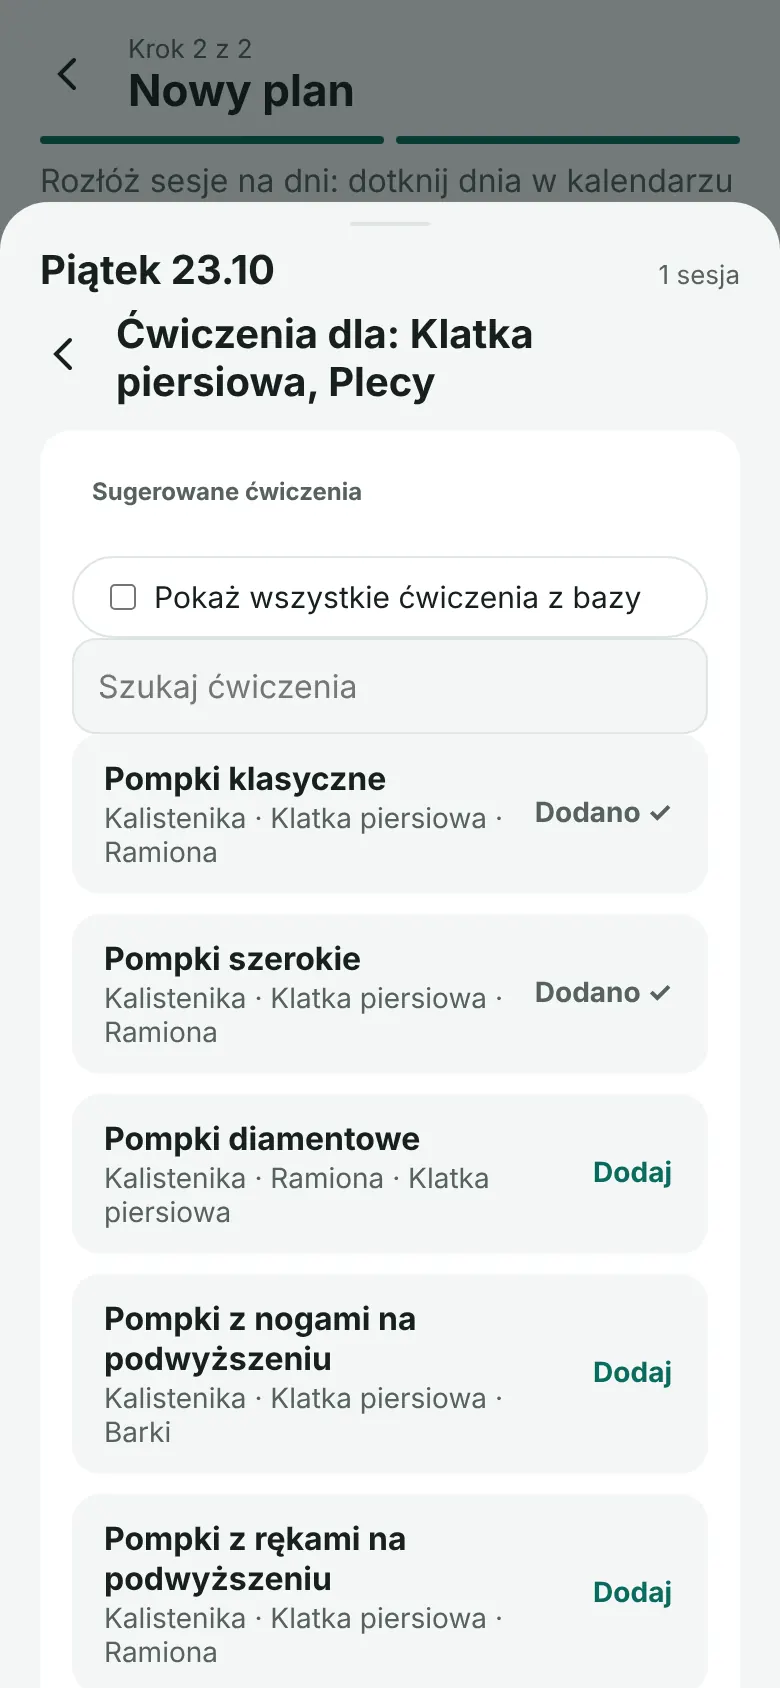
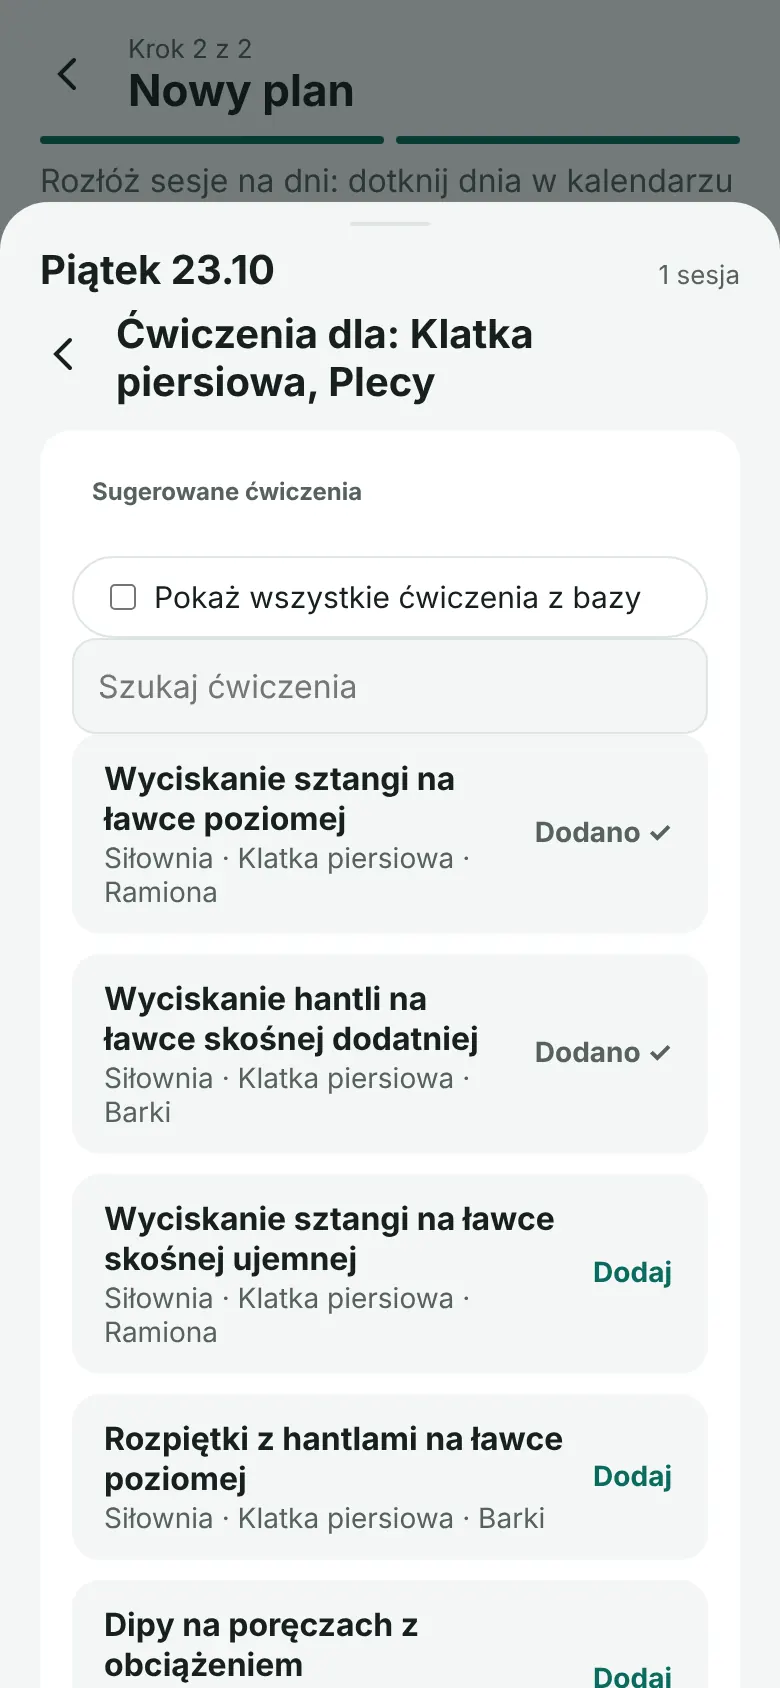
Przewodnik 10 kart (parametry, inne wartości, Moje treningi); podpowiedzi ćwiczeń zawężone do rodzaju aktywności
Claude-Session: https://claude.ai/code/session_01XYZpKMcxhnPhiREo3SxfLT

diff --git a/przewodnik.js b/przewodnik.js
@@ -3,13 +3,16 @@
 // Zrzuty generuje narzedzia/zrzuty-przewodnika.js z działającej aplikacji.
 
 const KARTY_PRZEWODNIKA = [
-  { obraz: "przewodnik/1-start.webp", tytul: "Witaj w aplikacji do ćwiczeń", tekst: "Układasz plan na tydzień lub miesiąc, a na ekranie Dziś odhaczasz ćwiczenia. Aplikacja ma trzy zakładki: Dziś, Ćwiczenia (baza ćwiczeń) i Postęp. Zacznij od „Utwórz plan”." },
+  { obraz: "przewodnik/1-start.webp", tytul: "Witaj w aplikacji do ćwiczeń", tekst: "Układasz plan na tydzień lub miesiąc, a na ekranie Dziś odhaczasz ćwiczenia. Aplikacja ma trzy zakładki: Dziś, Ćwiczenia (baza ćwiczeń i Moje treningi) oraz Postęp. Zacznij od „Utwórz plan”." },
   { obraz: "przewodnik/2-aktywnosci.webp", tytul: "1. Wybierz aktywności", tekst: "Dodaj aktywności (siłownia, kalistenika, spacer, bieganie…) i wpisz, ile razy w okresie chcesz je zrobić. Przy siłowni i kalistenice wybierz partie mięśni (można kilka) albo „Ogólnorozwojowy”." },
   { obraz: "przewodnik/3-kalendarz.webp", tytul: "2. Rozłóż sesje na dni", tekst: "Dotknij dnia w kalendarzu i dodaj sesję albo użyj „Zaproponuj rozkład”. Puste kwadraciki to sesje do uzupełnienia." },
-  { obraz: "przewodnik/4-cwiczenia-w-sesji.webp", tytul: "3. Dodaj ćwiczenia do sesji", tekst: "Dotknij sesji i wybierz „Dodaj ćwiczenia”. Aplikacja podpowiada ćwiczenia pasujące do partii, a „Pokaż wszystkie” otwiera całą bazę. Potem ustawisz serie, powtórzenia i ciężary." },
-  { obraz: "przewodnik/5-dzis.webp", tytul: "Odhaczaj na ekranie Dziś", tekst: "Dotknij kwadracika, aby zaliczyć ćwiczenie. Dotknij wartości (np. 8 × 8), jeśli zrobiłeś coś innego niż w planie albo użyłeś innego ciężaru." },
-  { obraz: "przewodnik/6-postep.webp", tytul: "Śledź postęp", tekst: "Zakładka Postęp pokazuje realizację planu, ćwiczone mięśnie i serię dni. Poprzednie plany zostają w historii, a przy każdym ćwiczeniu jest przycisk „Historia”." },
-  { obraz: "przewodnik/7-baza.webp", tytul: "Baza ćwiczeń", tekst: "Wybierz partię i mięśnie, aby znaleźć ćwiczenie. Niepotrzebne ćwiczenia możesz ukryć i przywrócić przyciskiem „Pokaż ukryte”. Możesz też dodać własne." }
+  { obraz: "przewodnik/4-cwiczenia-w-sesji.webp", tytul: "3. Dodaj ćwiczenia do sesji", tekst: "Dotknij sesji i wybierz „Dodaj ćwiczenia”. Aplikacja podpowiada ćwiczenia pasujące do aktywności, a „Pokaż wszystkie” otwiera całą bazę. Zaznacz „Zapisz w Moich zestawach”, jeśli chcesz użyć tego zestawu ponownie." },
+  { obraz: "przewodnik/5-parametry.webp", tytul: "4. Ustaw serie, powtórzenia i ciężary", tekst: "Dla każdego ćwiczenia wybierz miarę (serie i powtórzenia, czas…) i wpisz ile razy. Przy ćwiczeniach z ciężarem ustaw kilogramy: ten sam w każdej serii albo różny w seriach. To jest plan, który zobaczysz na ekranie Dziś." },
+  { obraz: "przewodnik/6-dzis.webp", tytul: "Odhaczaj na ekranie Dziś", tekst: "Dotknij kwadracika, aby zaliczyć ćwiczenie dokładnie tak, jak w planie. Pod ćwiczeniem widzisz zaplanowane serie i powtórzenia, a po zaliczeniu pasek postępu rośnie." },
+  { obraz: "przewodnik/7-inne-wartosci.webp", tytul: "Zrobiłeś inaczej niż w planie?", tekst: "Dotknij podkreślonej wartości (np. 8 × 8), a pojawią się pola serii, powtórzeń i ciężaru. Zmień je tak, jak było naprawdę, a aplikacja policzy różnicę („+16 powt. ponad plan” albo mniej). „Zapisz i zalicz” zapisuje wynik." },
+  { obraz: "przewodnik/8-postep.webp", tytul: "Śledź postęp", tekst: "Zakładka Postęp pokazuje realizację planu, ćwiczone mięśnie i serię dni. Poprzednie plany zostają w historii, a przy każdym ćwiczeniu jest przycisk „Historia”." },
+  { obraz: "przewodnik/9-baza.webp", tytul: "Baza ćwiczeń", tekst: "Wybierz partię i mięśnie, aby znaleźć ćwiczenie. Niepotrzebne ćwiczenia możesz ukryć i przywrócić przyciskiem „Pokaż ukryte”. Możesz też dodać własne." },
+  { obraz: "przewodnik/10-moje-treningi.webp", tytul: "Moje treningi", tekst: "To zestawy ćwiczeń, które zapisałeś, żeby używać ich w kolejnych planach, np. „Klatka i plecy A”. Dodasz je w sesji przyciskiem „Z moich zestawów”. Tutaj możesz je też pokazać, edytować albo usunąć." }
 ];
 
 const przewodnikTlo = document.getElementById("przewodnik");

diff --git a/narzedzia/zrzuty-przewodnika.js b/narzedzia/zrzuty-przewodnika.js
@@ -41,10 +41,20 @@ const sciezka = require("path").resolve(__dirname, "..");
   await p.locator("#kr2-cwiczenia .akcja").nth(0).tap();
   await p.locator("#kr2-cwiczenia .akcja").nth(1).tap();
   await zrzut("4-cwiczenia-w-sesji");
+  await p.check("#kr2-zapisz-zestaw");
+  await p.fill("#kr2-nazwa", "Klatka i plecy A");
   await p.tap("#kr2-zapisz");
   await p.waitForTimeout(300);
   const wejscia = p.locator("#pd-sesja-parametry input:visible");
   for (let i = 0; i < (await wejscia.count()); i++) await wejscia.nth(i).fill("8");
+  const bloki = p.locator("#pd-sesja-parametry .ciezar-blok select");
+  for (let i = 0; i < (await bloki.count()); i++) {
+    await bloki.nth(i).selectOption("jeden");
+    await p.locator("#pd-sesja-parametry .ciezar-blok").nth(i).locator("input:visible").first().fill(i === 0 ? "60" : "24");
+  }
+  await p.locator("#arkusz-tresc").evaluate((e) => (e.scrollTop = 130));
+  await p.waitForTimeout(200);
+  await zrzut("5-parametry");
   await p.tap("#pd-sesja-zapisz");
   await p.tap("#pd-zamknij");
 
@@ -87,11 +97,20 @@ const sciezka = require("path").resolve(__dirname, "..");
   await p.waitForTimeout(300);
   await p.locator("#dzis-sesje .odhacz").first().tap();
   await p.waitForTimeout(300);
-  await zrzut("5-dzis");
+  await zrzut("6-dzis");
+  // Okno wartości: zrobione inaczej niż w planie
+  await p.locator("#dzis-sesje .wartosc-przycisk").nth(1).tap();
+  await p.waitForTimeout(200);
+  await p.locator("#wart-pola .wart-stepper button").nth(3).tap();
+  await p.locator("#wart-pola .wart-stepper button").nth(3).tap();
+  await p.locator("#wart-pola .wart-stepper button").nth(5).tap();
+  await p.waitForTimeout(200);
+  await zrzut("7-inne-wartosci");
+  await p.tap("#wart-anuluj");
 
   await p.evaluate(() => pokazEkran("ekran-postep"));
   await p.waitForTimeout(300);
-  await zrzut("6-postep");
+  await zrzut("8-postep");
 
   await p.evaluate(() => pokazEkran("ekran-cwiczenia"));
   await p.waitForTimeout(300);
@@ -100,7 +119,10 @@ const sciezka = require("path").resolve(__dirname, "..");
   await p.locator("#chipy-partie .chip", { hasText: "Plecy" }).tap();
   await p.locator("#chipy-miesnie .chip").nth(3).tap();
   await p.waitForTimeout(300);
-  await zrzut("7-baza");
+  await zrzut("9-baza");
+  await p.tap("#przelacznik-treningi");
+  await p.waitForTimeout(300);
+  await zrzut("10-moje-treningi");
   await b.close();
   // PNG -> WEBP (mniejsze pliki)
   require("child_process").execSync(

diff --git a/index.html b/index.html
@@ -8,7 +8,7 @@
   <meta name="theme-color" content="#0B6B5F">
   <link rel="icon" href="ikona-192.png">
   <link rel="apple-touch-icon" href="ikona-180.png">
-  <link rel="stylesheet" href="style.css?v=30">
+  <link rel="stylesheet" href="style.css?v=32">
 </head>
 <body>
 
@@ -513,16 +513,16 @@
     </div>
   </div>
 
-  <script src="dane.js?v=30"></script>
-  <script src="anatomia.js?v=30"></script>
-  <script src="cwiczenia.js?v=30"></script>
-  <script src="treningi.js?v=30"></script>
-  <script src="kreator.js?v=30"></script>
-  <script src="kreator2.js?v=30"></script>
-  <script src="dzis.js?v=30"></script>
-  <script src="postep.js?v=30"></script>
-  <script src="ustawienia.js?v=30"></script>
-  <script src="kopia.js?v=30"></script>
+  <script src="dane.js?v=32"></script>
+  <script src="anatomia.js?v=32"></script>
+  <script src="cwiczenia.js?v=32"></script>
+  <script src="treningi.js?v=32"></script>
+  <script src="kreator.js?v=32"></script>
+  <script src="kreator2.js?v=32"></script>
+  <script src="dzis.js?v=32"></script>
+  <script src="postep.js?v=32"></script>
+  <script src="ustawienia.js?v=32"></script>
+  <script src="kopia.js?v=32"></script>
   <div class="przewodnik" id="przewodnik" hidden>
     <div class="przewodnik-karta" role="dialog" aria-label="Przewodnik">
       <button class="akcja prz-pomin" id="prz-pomin">Pomiń</button>
@@ -537,7 +537,7 @@
     </div>
   </div>
 
-  <script src="przewodnik.js?v=30"></script>
-  <script src="app.js?v=30"></script>
+  <script src="przewodnik.js?v=32"></script>
+  <script src="app.js?v=32"></script>
 </body>
 </html>

diff --git a/sw.js b/sw.js
@@ -1,13 +1,12 @@
 // Service worker: aplikacja działa bez internetu, ale zawsze najpierw próbuje pobrać nowe pliki.
 // Przy każdej wgranej paczce zmień numer wersji poniżej.
-const WERSJA = "cwiczenia-v30";
+const WERSJA = "cwiczenia-v32";
 
 const PLIKI = [
   "./", "index.html", "style.css", "manifest.webmanifest",
   "dane.js", "anatomia.js", "cwiczenia.js", "treningi.js", "kreator.js", "kreator2.js",
   "dzis.js", "postep.js", "ustawienia.js", "kopia.js", "przewodnik.js", "app.js",
-  "przewodnik/1-start.webp", "przewodnik/2-aktywnosci.webp", "przewodnik/3-kalendarz.webp", "przewodnik/4-cwiczenia-w-sesji.webp",
-  "przewodnik/5-dzis.webp", "przewodnik/6-postep.webp", "przewodnik/7-baza.webp",
+  "przewodnik/1-start.webp", "przewodnik/2-aktywnosci.webp", "przewodnik/3-kalendarz.webp", "przewodnik/4-cwiczenia-w-sesji.webp", "przewodnik/5-parametry.webp", "przewodnik/6-dzis.webp", "przewodnik/7-inne-wartosci.webp", "przewodnik/8-postep.webp", "przewodnik/9-baza.webp", "przewodnik/10-moje-treningi.webp",
   "przyklady-kalistenika.json", "przyklady-silownia.json", "przyklady-mobilnosc.json",
   "ikona-192.png", "ikona-512.png"
 ];

diff --git a/style.css b/style.css
@@ -1714,3 +1714,7 @@ h1 {
 .prz-kropki span { width: 8px; height: 8px; border-radius: 50%; background: var(--linia); }
 .prz-kropki span.aktywna { background: var(--akcent); }
 .prz-przyciski { display: grid; grid-template-columns: 1fr 1fr; gap: 10px; margin-top: auto; padding-bottom: 8px; }
+
+/* Karta ćwiczeń sesji: tekst na całą szerokość, przyciski pod spodem */
+#pd-sesja-trening .karta { flex-wrap: wrap; }
+#pd-sesja-trening .karta-tekst { flex: 1 1 100%; }

diff --git a/kreator2.js b/kreator2.js
@@ -237,7 +237,7 @@ function pasujeDoAktywnosci(cwiczenie, aktywnosc) {
   }
   const partie = partieAktywnosci(aktywnosc);
   if (partie.length > 0) {
-    return partie.some(function (id) {
+    return cwiczenie.rodzajId === aktywnosc.rodzajId && partie.some(function (id) {
       return (cwiczenie.partieIds || []).indexOf(id) !== -1;
     });
   }

diff --git a/dokumentacja/01-funkcjonalnosc.md b/dokumentacja/01-funkcjonalnosc.md
@@ -136,6 +136,7 @@ Rodzaj i mięśnie dopasowuje się po nazwie (bez względu na wielkość liter).
 - „Z moich zestawów" (tylko gdy są zapisane zestawy) pozwala wybrać gotowy.
 
 ## Przewodnik „Jak to działa?"
-- 7 kart ze zrzutami ekranu (`przewodnik/*.webp`), tekst w `przewodnik.js`. Otwiera się sam przy pierwszym uruchomieniu (`dane.przewodnikWidziany`), potem pod przyciskami „Jak to działa?" (ekran Dziś bez planu) i w Ustawieniach → Pomoc.
+- 10 kart ze zrzutami ekranu (`przewodnik/*.webp`), tekst w `przewodnik.js`. Otwiera się sam przy pierwszym uruchomieniu (`dane.przewodnikWidziany`), potem pod przyciskami „Jak to działa?" (ekran Dziś bez planu) i w Ustawieniach → Pomoc.
 - Nie pokazuje się w automatycznych testach (`navigator.webdriver`).
 - Zrzuty odświeża skrypt `narzedzia/zrzuty-przewodnika.js` (dane demonstracyjne z działającej aplikacji); po zmianach wyglądu uruchomić go ponownie i podnieść wersję.
+- Podpowiedzi ćwiczeń w sesji dla aktywności z partiami dopasowują też rodzaj (Siłownia → tylko ćwiczenia siłowni); reszta pod „Pokaż wszystkie ćwiczenia z bazy".
